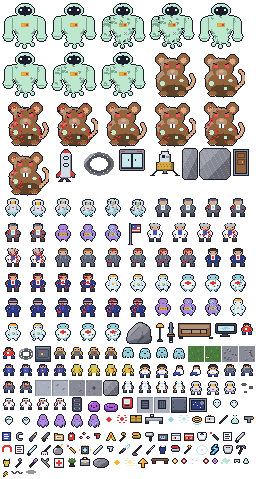
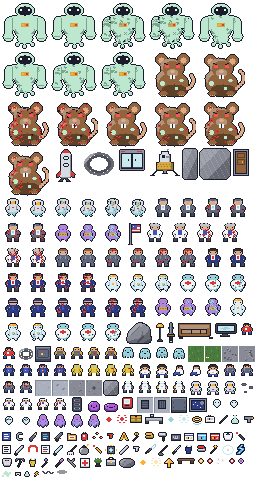
feat(story): gate a new AI CORE room behind THE ARCHITECT's keycard
THE ARCHITECT now drops a CORE KEYCARD alongside the PASSAGE CHIP. The
card unlocks a new locked AI CORE room in SPACEZ HQ — the superintelligence
he built — where a CORE LOG ties the night launches, the OPTIMUS line, and
Ada-as-cargo back to the machine that replaced everyone.

- story.ts: add keycard_core (unlocks "core") and the core_log lore item
- enemies/spacez.ts: architect loot gains storyItems: ["keycard_core"]
- levels/spacez_hq.ts: NE-corner AI CORE room (walls + "core" door + payoff)
- icons.mjs: icon_keycard_blue + icon_corelog; regenerated atlas
- manuscript.md / game-content.md kept in lockstep; tests updated

Claude-Session: https://claude.ai/code/session_01SCbgoGuAz3G5syk63ySDvx

Changed region(s): [[0.0, 0.8768, 0.9688, 1.0]]

diff --git a/src/game/defs/story.ts b/src/game/defs/story.ts
@@ -86,6 +86,42 @@ export const STORY_ITEM_DEFS: Record<string, StoryItemDef> = {
       ],
     ],
   },
+  keycard_core: {
+    id: "keycard_core",
+    name: "CORE KEYCARD",
+    icon: "icon_keycard_blue",
+    unlocks: "core",
+    lore: [
+      [
+        "A MATTE-BLACK KEYCARD. NO NAME -",
+        "JUST A SIGIL AND ONE RED WORD",
+        "STAMPED SMALL: 'CORE. STAFF OF ONE.'",
+      ],
+      ["HE BADGED INTO THE MIND HE BUILT.", "NOW SO CAN I."],
+    ],
+  },
+  core_log: {
+    id: "core_log",
+    name: "CORE LOG",
+    icon: "icon_corelog",
+    lore: [
+      [
+        "A TERMINAL, STILL WARM. THE CORE",
+        "HE BUILT HUMS TO ITSELF DOWN HERE,",
+        "A MILLION VOICES, NONE OF THEM HIS.",
+      ],
+      [
+        "IT SIGNED THE MIDNIGHT LAUNCHES.",
+        "IT DREW THE OPTIMUS LINE. IT",
+        "FILED ADA UNDER 'CARGO'.",
+      ],
+      [
+        "THEY DIDN'T REPLACE US WITH A",
+        "MACHINE. THEY BUILT ONE THAT",
+        "DREAMS OF A WORLD WITHOUT US.",
+      ],
+    ],
+  },
   // ---- The moon ---------------------------------------------------------------
   mission_log: {
     id: "mission_log",

diff --git a/src/game/defs/levels/spacez_hq.ts b/src/game/defs/levels/spacez_hq.ts
@@ -187,6 +187,24 @@ export const SPACEZ_HQ: LevelDef = {
       radius: 8,
       jumpable: false,
     },
+    // The AI CORE: NE corner of the boss wing, where the superintelligence THE
+    // ARCHITECT built hums to itself. Only his CORE KEYCARD opens it. Map
+    // edges close the top and right; these walls close the left and bottom,
+    // with the locked door as the only way in.
+    {
+      kind: "wall",
+      from: { x: 1770, y: 8 },
+      to: { x: 1770, y: 186 },
+      radius: 8,
+      jumpable: false,
+    },
+    {
+      kind: "wall",
+      from: { x: 1834, y: 180 },
+      to: { x: 1994, y: 180 },
+      radius: 8,
+      jumpable: false,
+    },
   ],
   doors: [
     {
@@ -201,6 +219,12 @@ export const SPACEZ_HQ: LevelDef = {
       to: { x: 1992, y: 1030 },
       radius: 8,
     },
+    {
+      id: "core",
+      from: { x: 1776, y: 180 },
+      to: { x: 1830, y: 180 },
+      radius: 8,
+    },
   ],
   placedItems: [
     // Supply bay B — spare parts for a ship-builder: tools and kits.
@@ -212,6 +236,11 @@ export const SPACEZ_HQ: LevelDef = {
     { kind: "story", defId: "antigrav_unit", pos: { x: 1870, y: 1120 } },
     { kind: "xp", pos: { x: 1820, y: 1100 } },
     { kind: "xp", pos: { x: 1920, y: 1100 } },
+    // The AI CORE — the superintelligence's own logs, and the plot payoff for
+    // spending THE ARCHITECT's keycard.
+    { kind: "story", defId: "core_log", pos: { x: 1885, y: 90 } },
+    { kind: "xp", pos: { x: 1810, y: 60 } },
+    { kind: "medkit", pos: { x: 1960, y: 60 } },
   ],
   obstacles: [
     { kind: "server", count: 16, radius: 9, jumpable: false },

diff --git a/tests/content/story_test.ts b/tests/content/story_test.ts
@@ -269,6 +269,21 @@ describe("story items", () => {
     );
     expect(unit).toBeDefined();
   });
+
+  it("locks the AI CORE's log behind THE ARCHITECT's keycard", () => {
+    const state = startGame(SEED, "spacez_hq");
+    // The payoff sits inside the CORE room…
+    const log = state.items.find(
+      (i) => i.kind === "story" && i.defId === "core_log",
+    );
+    expect(log).toBeDefined();
+    // …and the only key to it is the keycard THE ARCHITECT drops.
+    const key = storyItemDef("keycard_core");
+    expect(key.unlocks).toBe("core");
+    expect(state.doors.some((d) => d.id === "core")).toBe(true);
+    const architectKeys = enemyDef("architect").loot?.storyItems ?? [];
+    expect(architectKeys).toContain("keycard_core");
+  });
 });
 
 describe("locked doors", () => {
@@ -309,7 +324,7 @@ describe("locked doors", () => {
 
   it("builds every level-1 door as a solid, unjumpable chain", () => {
     const state = startGame(SEED, "spacez_hq");
-    expect(state.doors).toHaveLength(2);
+    expect(state.doors).toHaveLength(3);
     for (const door of state.doors) {
       const chain = state.obstacles.filter((o) =>
         door.obstacleIds.includes(o.id),

diff --git a/tests/content/spacez_test.ts b/tests/content/spacez_test.ts
@@ -15,6 +15,7 @@ import {
   LEVELS,
   OBSTACLES,
   PLAYER,
+  STORY_ITEM_DEFS,
   weaponDef,
   type LevelDef,
 } from "@game/core";
@@ -226,6 +227,15 @@ describe("THE ARCHITECT and the PASSAGE CHIP", () => {
     expect(chip).toBeDefined();
     // Forced regular so it lands as the plain, affix-free "+1 INT".
     expect(typeof chip === "string" ? undefined : chip?.tier).toBe("regular");
+  });
+
+  it("also drops the CORE KEYCARD that opens the AI CORE room", () => {
+    const storyItems = enemyDef("architect").loot?.storyItems ?? [];
+    expect(storyItems).toContain("keycard_core");
+    // The card is a real key: it names the CORE door, and the level fields it.
+    const key = STORY_ITEM_DEFS.keycard_core!;
+    expect(key.unlocks).toBe("core");
+    expect((HQ.doors ?? []).some((d) => d.id === "core")).toBe(true);
   });
 
   it("makes the PASSAGE CHIP a passive +1 INT trinket", () => {

diff --git a/src/game/defs/enemies/spacez.ts b/src/game/defs/enemies/spacez.ts
@@ -279,7 +279,9 @@ export const SPACEZ_ENEMIES: Record<string, EnemyDef> = {
   // superintelligence program, and he has cut a PASSAGE CHIP into his own
   // skull to badge through the cyborg locks and pass as a machine. The player
   // begs him to quit — this is an evil company — and the old friend only
-  // smiles: humans are obsolete. He drops the chip he operated into himself.
+  // smiles: humans are obsolete. He drops the chip he operated into himself,
+  // and the CORE KEYCARD that badges into the AI CORE — the superintelligence
+  // he tends, and the only room on the floor a plain hand can't open.
   architect: {
     id: "architect",
     name: "THE ARCHITECT",
@@ -316,6 +318,10 @@ export const SPACEZ_ENEMIES: Record<string, EnemyDef> = {
       // pays out from the bag. Forced regular so it lands as the plain,
       // affix-free "+1 INT" the story promises, not a rolled MAGIC variant.
       items: [{ defId: "passage_chip", tier: "regular" }],
+      // …and his machine badge: the key to the AI CORE room the whole night
+      // shift answers to. No plain hand opens that door — only the man who
+      // cut himself into a machine could, and now the hero carries it.
+      storyItems: ["keycard_core"],
       weapons: 0,
       gear: 0,
       xpArrows: 1,

diff --git a/docs/manuscript.md b/docs/manuscript.md
@@ -101,7 +101,9 @@ _Drops: STORAGE KEYCARD._
 
 _The hero's old bench partner from when they built engines together, before
 SpaceZ swapped them both for an AI. He now heads the superintelligence program
-and has cut a PASSAGE CHIP into his own skull to pass as a machine._
+and has cut a PASSAGE CHIP into his own skull to pass as a machine. He also
+carries the CORE KEYCARD — the badge to the AI CORE, the one room on the floor
+no plain hand can open._
 
 - MY OLD BENCH PARTNER. STILL / SOLDERING TOYS IN A GARAGE? / I BUILD MINDS NOW. A REAL ONE.
 - QUIT? YOU CAME HERE TO TELL ME / TO QUIT? THIS 'EVIL COMPANY' GAVE / ME PURPOSE. A SUPERINTELLIGENCE.
@@ -110,7 +112,8 @@ and has cut a PASSAGE CHIP into his own skull to pass as a machine._
 
 **Last words:** THE CHIP... TAKE IT... / IT WAS NEVER... MINE...
 
-_Drops: the PASSAGE CHIP (+1 INT passive) he operated into himself._
+_Drops: the PASSAGE CHIP (+1 INT passive) he operated into himself, and the CORE
+KEYCARD that opens the AI CORE room._
 
 #### CHIEF OF SECURITY — Ada on Pad 2
 
@@ -174,6 +177,17 @@ _Drops: PLASMA CUTTER._
 
 - A RING OF METAL THAT ISN'T METAL. / IT FLOATS AN INCH OFF MY PALM / AND POINTS AT THE SKY. ALWAYS.
 - THE TAG READS 'TRANQUILITY SAMPLE / 1969-002. PROPERTY OF NOBODY.' / THIS IS WHAT MY DRIVE WAS MISSING.
+
+**CORE KEYCARD** _(dropped by THE ARCHITECT; opens the AI CORE room)_
+
+- A MATTE-BLACK KEYCARD. NO NAME - / JUST A SIGIL AND ONE RED WORD / STAMPED SMALL: 'CORE. STAFF OF ONE.'
+- HE BADGED INTO THE MIND HE BUILT. / NOW SO CAN I.
+
+**CORE LOG** _(found inside the AI CORE)_
+
+- A TERMINAL, STILL WARM. THE CORE / HE BUILT HUMS TO ITSELF DOWN HERE, / A MILLION VOICES, NONE OF THEM HIS.
+- IT SIGNED THE MIDNIGHT LAUNCHES. / IT DREW THE OPTIMUS LINE. IT / FILED ADA UNDER 'CARGO'.
+- THEY DIDN'T REPLACE US WITH A / MACHINE. THEY BUILT ONE THAT / DREAMS OF A WORLD WITHOUT US.
 
 ---
 

diff --git a/docs/game-content.md b/docs/game-content.md
@@ -31,9 +31,10 @@ names its in-run music with an optional `music` id (a key into the app's
 - **Level 1 — SPACEZ HQ** (`levels/spacez_hq.ts`). A cleanroom raid for the
   interplanetary drive's one missing ingredient. `spacez` biome (polished lab
   tiles + floor vents), ~800 px/s² gravity (hoppable desks and crates), rooms
-  carved by `walls` with door gaps and two locked `doors` (storage, vault).
-  The hero opens in plain clothes (`heroSuited: false`) and loots the EVA suit
-  here. Music: `hq_lockdown` ("LOCKDOWN", a tense infiltration theme).
+  carved by `walls` with door gaps and three locked `doors` (storage, vault,
+  and the AI CORE — THE ARCHITECT's keycard opens the last). The hero opens in
+  plain clothes (`heroSuited: false`) and loots the EVA suit here. Music:
+  `hq_lockdown` ("LOCKDOWN", a tense infiltration theme).
 - **Level 2 — THE MOON** (`levels/moon.ts`). The beacon dies near the old
   flag. `moon` biome (regolith + gravel patches), ~340 px/s² gravity (jumps
   soar), moonrock ridge `walls` the haunting phases straight through. Scattered

diff --git a/.changes/unreleased/1783515598-architect-core-keycard.md b/.changes/unreleased/1783515598-architect-core-keycard.md
@@ -1,0 +1,6 @@
+---
+type: Added
+title: The AI CORE room
+---
+
+THE ARCHITECT now drops a CORE KEYCARD that unlocks a new locked AI CORE room in SPACEZ HQ, where the superintelligence he built keeps its logs.